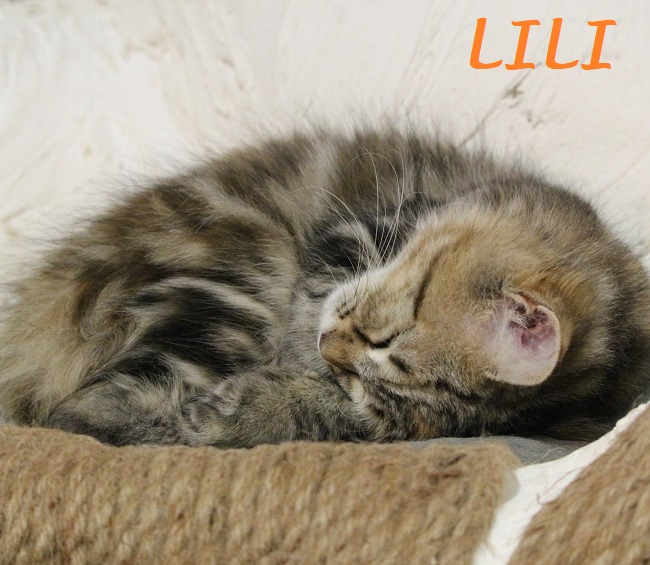
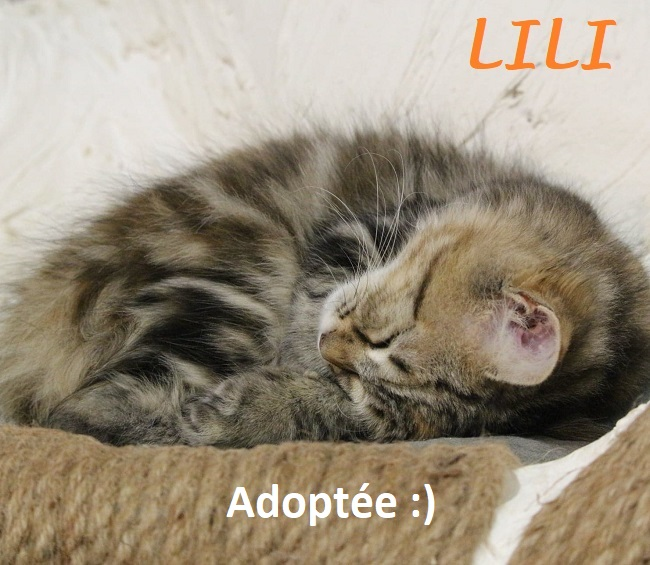
photos à jour + txt

Changed region(s): [[0.3385, 0.8425, 0.6769, 0.9327]]

diff --git a/src/app/reservation/reservation.component.html b/src/app/reservation/reservation.component.html
@@ -14,7 +14,7 @@
         routerLink="/contact">contacter</span> au préalable pour en discuter.</div>
       </div>
       <div class="color-turquoise-foncee text-center mt-5">
-        <div><i>(Certains navigateurs ne veulent pas actualiser la page Réservation quand vous cliquez sur "actualiser" ou utilisez F5. 
+        <div><i>(Certains navigateurs ne veulent pas actualiser la page Réservation quand vous leur demandez. 
           Pas de panique, l'emploi du temps est actualisé automatiquement ! 
           Vous pouvez aussi aller sur un autre onglet de notre site puis revenir sur "Réservation", 
           ou bien utiliser les flèches "semaine précédente" puis "semaine suivante")</i></div>
@@ -58,7 +58,7 @@
 
 <div class="row justify-content-start legende">
   <div class="col-2 empty-color">2/2 places libres</div>
-  <div class="col-2 half-hour-color">1/2 place libre une heure</div>
+  <div class="col-2 half-hour-color">1/2 place libre séance 1h</div>
   <div class="col-2 half-day-color">1/2 place libre demi-journée</div>
   <div class="col-2 full-color">Complet</div>
   <div class="col-2 closed-color">Fermé</div>

diff --git a/src/app/nos-pensionnaires/nos-pensionnaires.component.ts b/src/app/nos-pensionnaires/nos-pensionnaires.component.ts
@@ -28,18 +28,25 @@ export class NosPensionnairesComponent implements OnInit {
       alt: 'Lapines'
     },
     {
-      image: '../../assets/images/Régate lèche Miatxt.jpg',
-      alt: 'Régate et Mia'
+      image: '../../assets/images/3axostxt.jpg',
+      alt: 'Axolotls'
+    },
+    {
+      image: '../../assets/images/régatebientottxt.jpg',
+      alt: 'Régate'
+    },
+    {
+      image: '../../assets/images/Miaadoptxt.jpg',
+      alt: 'Mia'
     },
     {
       image: '../../assets/images/indiealicesontxt.jpg',
       alt: 'Indie'
     },
     {
-      image: '../../assets/images/3axostxt.jpg',
-      alt: 'Axolotls'
-    }
-
+      image: '../../assets/images/Lili dodotxt.jpg',
+      alt: 'Lili'
+    }  
   ];
 
   constructor() {

diff --git a/src/app/nos-locaux/nos-locaux.component.ts b/src/app/nos-locaux/nos-locaux.component.ts
@@ -36,10 +36,6 @@ export class NosLocauxComponent implements OnInit {
       alt: 'Arya et Mia'
     },
     {
-      image: '../../assets/images/moilapinesaliceson.jpg',
-      alt: 'Noémie et lapines'
-    },
-    {
       image: '../../assets/images/Moi et Bran NB.jpg',
       alt: 'Bran et Noémie'
     },
